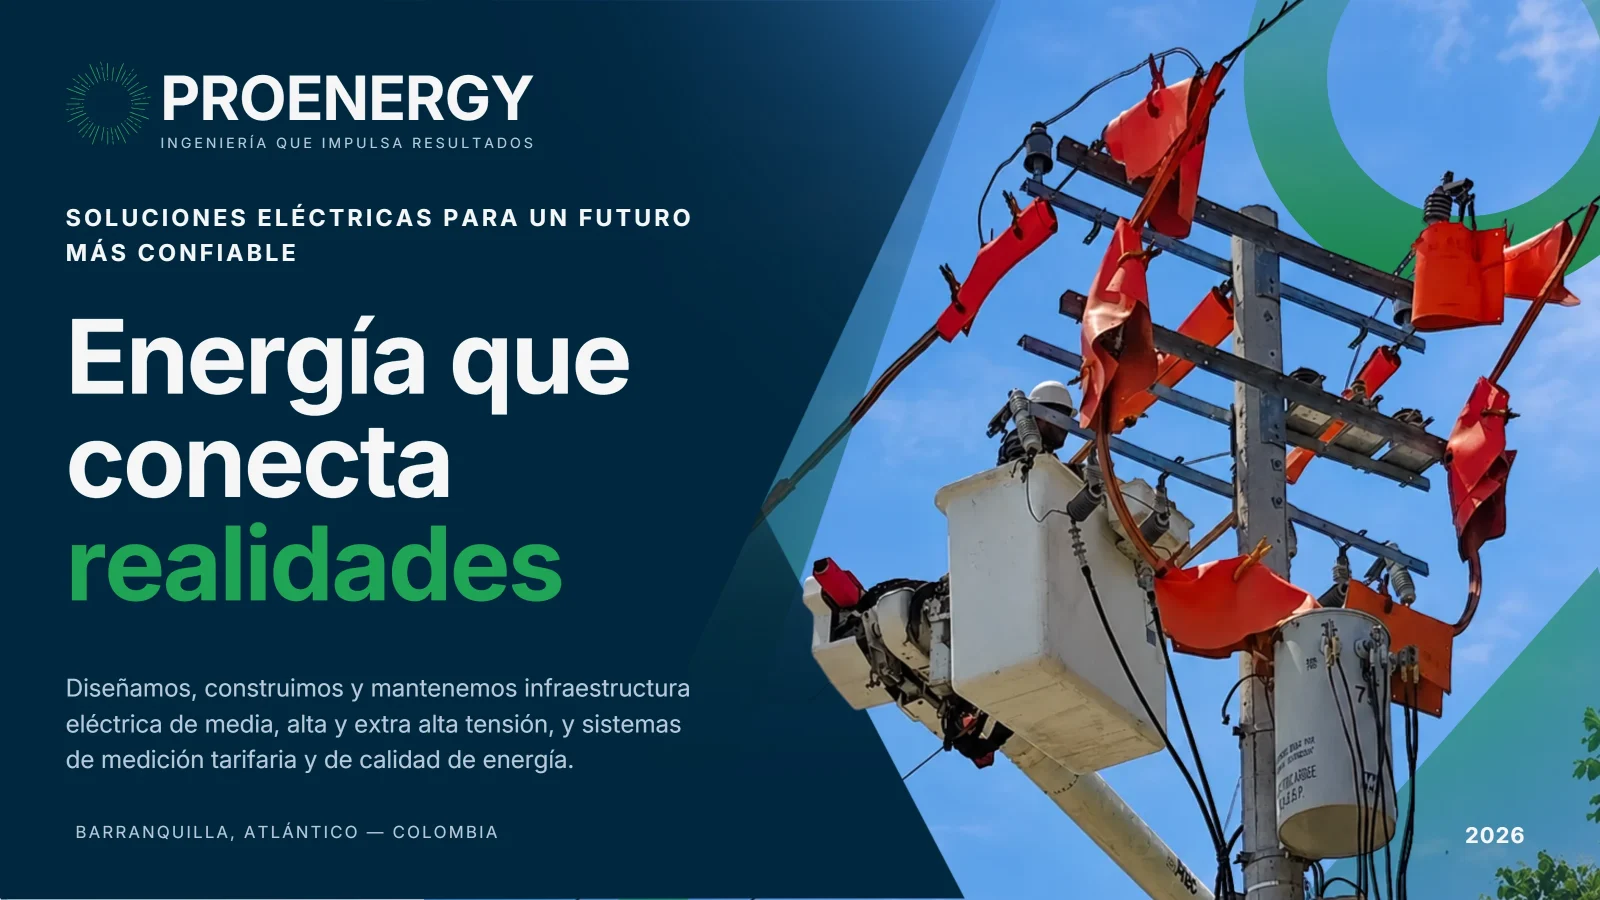
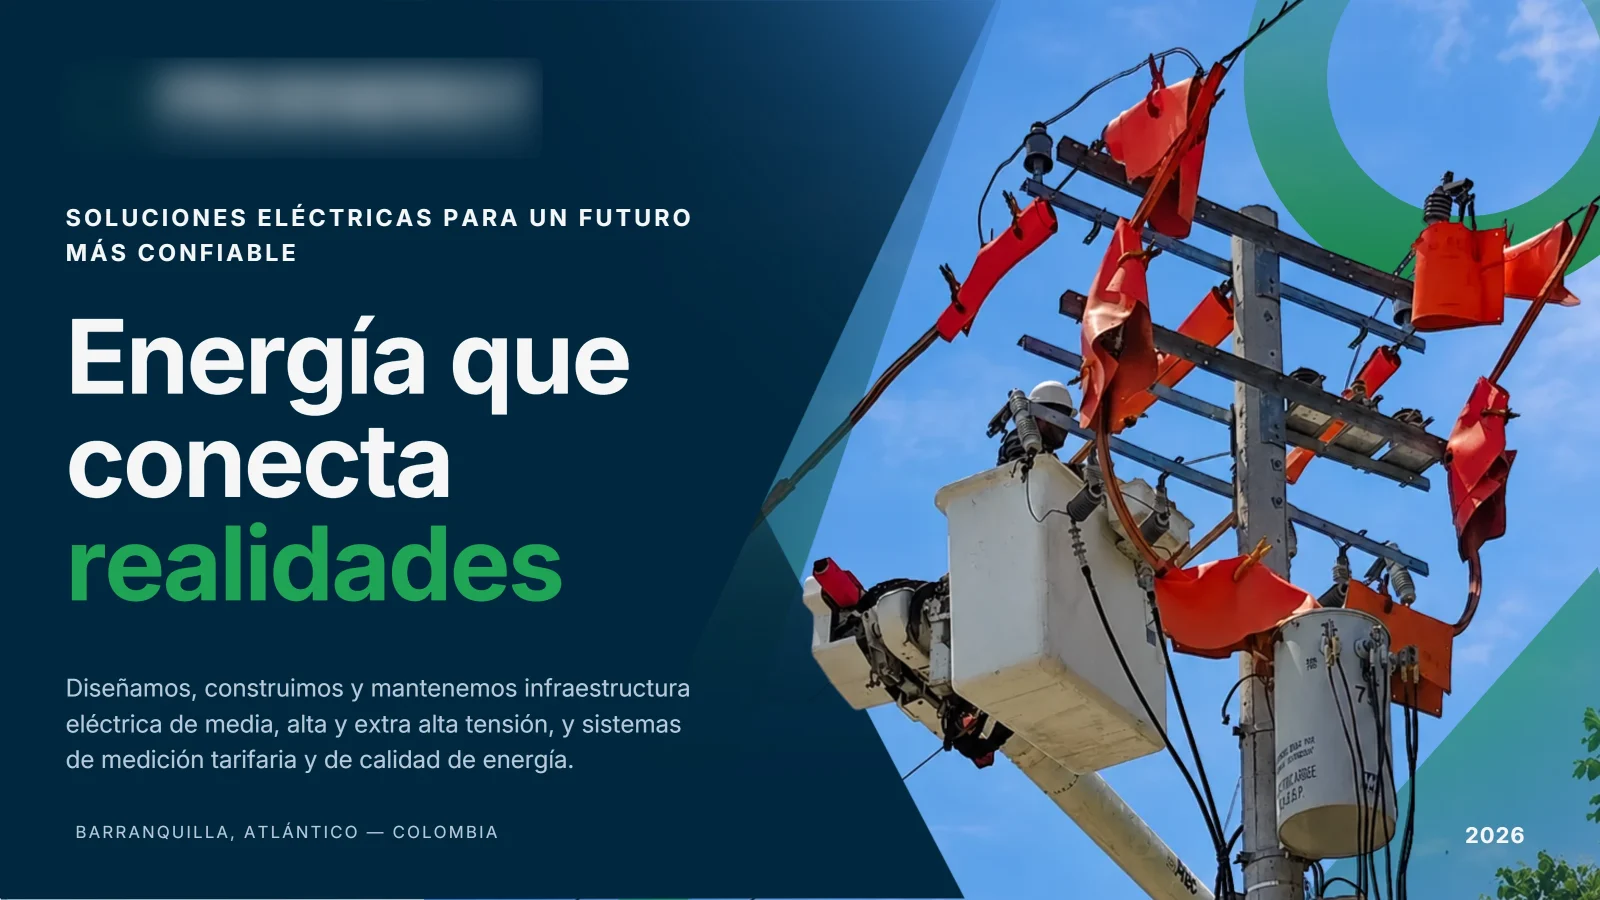
Portfolio: libro más ágil y propuesta sin el nombre del cliente
- Libro: la página pasa en 0,42 s y si das clic seguido termina la anterior al
  instante y sigue; las páginas nuevas del PDF se fuerzan a cargar (?v=pdf2) para
  no ver las viejas guardadas en el navegador. Flechas en SVG, centradas en el
  círculo (también en ATEC).
- La carpeta Proenergy pasa a 'Propuesta': el nombre de la marca va difuminado en
  las 4 diapositivas y no aparece en ningún texto; se aclara que fue una propuesta.

Changed region(s): [[0.0625, 0.0622, 0.3438, 0.1867]]

diff --git a/portfolio/index.html b/portfolio/index.html
@@ -1053,7 +1053,7 @@ html.has-cursor input,html.has-cursor textarea{cursor:text!important}
 /* ---------- libro que se hojea ---------- */
 .pw-scroll.bookw{display:block;overflow:hidden;padding:0;container-type:size;background:radial-gradient(80% 70% at 50% 40%,#F4EFE6,#E6E0D6)}
 .bk{display:flex;flex-direction:column;align-items:center;justify-content:center;gap:14px;height:100%;padding:18px 20px 14px;outline:none}
-.bk-book{position:relative;height:min(calc(100cqh - 132px),calc((100cqw - 40px) * .75));aspect-ratio:4/3;perspective:2600px;transition:transform .8s var(--ease)}
+.bk-book{position:relative;height:min(calc(100cqh - 132px),calc((100cqw - 40px) * .75));aspect-ratio:4/3;perspective:2600px;transition:transform .45s var(--ease)}
 .bk-book[data-v="first"]{transform:translateX(-25%)}
 .bk-book[data-v="last"]{transform:translateX(25%)}
 .bk-p,.bk-leaf{position:absolute;top:0;width:50%;height:100%}
@@ -1065,7 +1065,7 @@ html.has-cursor input,html.has-cursor textarea{cursor:text!important}
 .bk-l::after,.bk-b::after{background:linear-gradient(270deg,rgba(0,0,0,.2),rgba(0,0,0,0) 9%)}
 .bk-r::after,.bk-f::after{background:linear-gradient(90deg,rgba(0,0,0,.22),rgba(0,0,0,0) 9%)}
 .bk-book[data-v="first"] .bk-r::after{background:linear-gradient(90deg,rgba(0,0,0,.12),rgba(0,0,0,0) 3%)}
-.bk-leaf{right:0;z-index:3;transform-origin:left center;transform-style:preserve-3d;transition:transform .8s cubic-bezier(.45,.05,.3,1);visibility:hidden}
+.bk-leaf{right:0;z-index:3;transform-origin:left center;transform-style:preserve-3d;transition:transform .42s cubic-bezier(.4,.05,.25,1);visibility:hidden}
 .bk-leaf.on{visibility:visible}
 .bk-f,.bk-b{position:absolute;inset:0;backface-visibility:hidden;-webkit-backface-visibility:hidden}
 .bk-b{transform:rotateY(180deg)}
@@ -1074,7 +1074,8 @@ html.has-cursor input,html.has-cursor textarea{cursor:text!important}
 .bk-hit.prev{left:0}.bk-hit.next{right:0}
 .bk-hit:disabled{cursor:default}
 .bk-nav{display:flex;align-items:center;gap:14px}
-.bk-btn{width:36px;height:36px;border:0;border-radius:50%;background:var(--ink);color:#fff;font-size:20px;line-height:1;cursor:pointer;transition:transform .3s var(--ease),opacity .3s}
+.bk-btn{display:grid;place-items:center;width:38px;height:38px;padding:0;border:0;border-radius:50%;background:var(--ink);color:#fff;cursor:pointer;transition:transform .3s var(--ease),opacity .3s}
+.bk-btn svg,.atg-nav svg,.atg-x svg{display:block;width:18px;height:18px}
 .bk-btn:hover{transform:scale(1.08)}
 .bk-btn:disabled{opacity:.25;cursor:default;transform:none}
 .bk-count{min-width:120px;text-align:center;font-family:var(--f-mono);font-size:11.5px;letter-spacing:.08em;text-transform:uppercase;color:var(--ink-2)}
@@ -1101,7 +1102,7 @@ html.has-cursor input,html.has-cursor textarea{cursor:text!important}
 .atg-view{position:sticky;top:0;margin-top:-100%;z-index:5;display:grid;grid-template-columns:auto 1fr auto;align-items:center;gap:10px;height:100%;min-height:100%;padding:16px;background:rgba(20,16,26,.88);opacity:0;transition:opacity .25s ease}
 .atg-view.on{opacity:1}
 .pw-scroll.atg .atg-view img{grid-column:2;width:100%;max-width:none;max-height:calc(100% - 30px);height:auto;object-fit:contain;justify-self:center;border-radius:8px;box-shadow:0 30px 60px -25px rgba(0,0,0,.7);opacity:1;transform:none;animation:none}
-.atg-nav,.atg-x{width:38px;height:38px;border:0;border-radius:50%;background:rgba(255,255,255,.14);color:#fff;font-size:22px;line-height:1;cursor:pointer;transition:background .2s}
+.atg-nav,.atg-x{display:grid;place-items:center;width:38px;height:38px;padding:0;border:0;border-radius:50%;background:rgba(255,255,255,.14);color:#fff;cursor:pointer;transition:background .2s}
 .atg-nav:hover,.atg-x:hover{background:rgba(255,255,255,.28)}
 .atg-x{position:absolute;top:12px;right:12px}
 .atg-count{position:absolute;left:50%;bottom:10px;transform:translateX(-50%);font-size:12px;font-weight:600;color:rgba(255,255,255,.75)}
@@ -1319,12 +1320,12 @@ html.has-cursor.in-frame,html.has-cursor.in-frame *{cursor:auto!important}
         <span class="ico-name">ATEC<small>Estrategia de marca</small></span>
       </button>
       <button class="ico" type="button" data-open="editorial" style="--x:74%;--y:56%">
-        <span class="ico-art folder"><span class="fb"></span><img src="/assets/portfolio/felinorte/01.webp" alt="" width="900" height="1350" style="object-position:center 20%"><span class="ff"></span></span>
+        <span class="ico-art folder"><span class="fb"></span><img src="/assets/portfolio/felinorte/01.webp?v=pdf2" alt="" width="900" height="1350" style="object-position:center 20%"><span class="ff"></span></span>
         <span class="ico-name">Editorial<small>Libro ilustrado</small></span>
       </button>
       <button class="ico" type="button" data-open="proenergy" style="--x:3%;--y:44%">
-        <span class="ico-art folder"><span class="fb"></span><img src="/assets/portfolio/proenergy/01.webp" alt="" width="1600" height="900"><span class="ff"></span></span>
-        <span class="ico-name">Proenergy<small>Presentación</small></span>
+        <span class="ico-art folder"><span class="fb"></span><img src="/assets/portfolio/proenergy/01.webp?v=2" alt="" width="1600" height="900"><span class="ff"></span></span>
+        <span class="ico-name">Propuesta<small>Presentación</small></span>
       </button>
     </div>
 
@@ -1626,7 +1627,7 @@ html.has-cursor.in-frame,html.has-cursor.in-frame *{cursor:auto!important}
     return '<div class="atg-head"><b>ATEC · Estrategia de marca</b><span>'+g.titles.length+' páginas</span></div>'+
       '<div class="atg-grid">'+g.titles.map(function(t,i){var n=String(i+1).padStart(2,'0');
         return '<button type="button" class="atg-it" data-i="'+i+'" style="--i:'+i+'"><img src="'+g.base+n+'-t.webp" alt="'+t+'" width="560" height="347" loading="lazy" decoding="async"><span>'+(i+1)+'</span></button>'}).join('')+'</div>'+
-      '<div class="atg-view" hidden><button type="button" class="atg-x" aria-label="Volver a todas">×</button><button type="button" class="atg-nav prev" aria-label="Anterior">‹</button><img alt=""><button type="button" class="atg-nav next" aria-label="Siguiente">›</button><span class="atg-count"></span></div>';
+      '<div class="atg-view" hidden><button type="button" class="atg-x" aria-label="Volver a todas"><svg viewBox="0 0 24 24" aria-hidden="true"><path d="M7 7l10 10M17 7L7 17" fill="none" stroke="currentColor" stroke-width="2.4" stroke-linecap="round" stroke-linejoin="round"/></svg></button><button type="button" class="atg-nav prev" aria-label="Anterior"><svg viewBox="0 0 24 24" aria-hidden="true"><path d="M14.5 6l-6 6 6 6" fill="none" stroke="currentColor" stroke-width="2.4" stroke-linecap="round" stroke-linejoin="round"/></svg></button><img alt=""><button type="button" class="atg-nav next" aria-label="Siguiente"><svg viewBox="0 0 24 24" aria-hidden="true"><path d="M9.5 6l6 6-6 6" fill="none" stroke="currentColor" stroke-width="2.4" stroke-linecap="round" stroke-linejoin="round"/></svg></button><span class="atg-count"></span></div>';
   }
   // libro: 28 páginas; se ve de a dos como un libro abierto (portada sola a la derecha, contraportada sola a la izquierda)
   var BOOK={base:'/assets/portfolio/felinorte/',pages:30,title:'Descubriendo Felinorte'};
@@ -1635,14 +1636,15 @@ html.has-cursor.in-frame,html.has-cursor.in-frame *{cursor:auto!important}
       '<div class="bk-p bk-l"><img alt=""></div><div class="bk-p bk-r"><img alt=""></div>'+
       '<div class="bk-leaf"><div class="bk-f"><img alt=""></div><div class="bk-b"><img alt=""></div></div>'+
       '<button type="button" class="bk-hit prev" aria-label="Página anterior"></button><button type="button" class="bk-hit next" aria-label="Página siguiente"></button></div>'+
-      '<div class="bk-nav"><button type="button" class="bk-btn prev" aria-label="Página anterior">‹</button><span class="bk-count" aria-live="polite"></span><button type="button" class="bk-btn next" aria-label="Página siguiente">›</button></div>'+
+      '<div class="bk-nav"><button type="button" class="bk-btn prev" aria-label="Página anterior"><svg viewBox="0 0 24 24" aria-hidden="true"><path d="M14.5 6l-6 6 6 6" fill="none" stroke="currentColor" stroke-width="2.4" stroke-linecap="round" stroke-linejoin="round"/></svg></button><span class="bk-count" aria-live="polite"></span><button type="button" class="bk-btn next" aria-label="Página siguiente"><svg viewBox="0 0 24 24" aria-hidden="true"><path d="M9.5 6l6 6-6 6" fill="none" stroke="currentColor" stroke-width="2.4" stroke-linecap="round" stroke-linejoin="round"/></svg></button></div>'+
       '<p class="bk-note"><b>Proyecto educativo · 2023.</b> Ilustrado y diagramado por una de nuestras diseñadoras para un trabajo universitario. Sin fines comerciales.</p></div>';
   }
   function watchBook(root){
     var bk=root.querySelector('.bk');if(!bk)return;
     var book=bk.querySelector('.bk-book'),L=bk.querySelector('.bk-l img'),R=bk.querySelector('.bk-r img'),leaf=bk.querySelector('.bk-leaf'),F=leaf.querySelector('.bk-f img'),B=leaf.querySelector('.bk-b img'),cnt=bk.querySelector('.bk-count');
-    var N=BOOK.pages,V=Math.floor(N/2),v=0,busy=false;
-    function src(n){return n>=1&&n<=N?BOOK.base+String(n).padStart(2,'0')+'.webp':''}
+    var N=BOOK.pages,V=Math.floor(N/2),v=0,busy=false,tm=null,DUR=420;
+    function done(){clearTimeout(tm);leaf.classList.remove('on');show();busy=false}
+    function src(n){return n>=1&&n<=N?BOOK.base+String(n).padStart(2,'0')+'.webp?v=pdf2':''}
     function set(im,n){var u=src(n);im.parentNode.classList.toggle('empty',!u);if(u){if(im.getAttribute('src')!==u)im.src=u;im.alt=BOOK.title+', página '+n}else{im.removeAttribute('src');im.alt=''}}
     function pages(x){return x===0?[0,1]:x===V?[N,0]:[2*x,2*x+1]}
     function show(){var p=pages(v);set(L,p[0]);set(R,p[1]);book.setAttribute('data-v',v===0?'first':v===V?'last':'mid');
@@ -1651,7 +1653,8 @@ html.has-cursor.in-frame,html.has-cursor.in-frame *{cursor:auto!important}
       // precarga las dos páginas siguientes
       [2*v+2,2*v+3].forEach(function(n){var u=src(n);if(u)(new Image()).src=u});}
     function flip(d){
-      if(busy||(d>0&&v===V)||(d<0&&v===0))return;
+      if(busy)done();
+      if((d>0&&v===V)||(d<0&&v===0))return;
       var cur=pages(v),nxt=pages(v+d);
       if(reduce){v+=d;show();return}
       busy=true;
@@ -1660,7 +1663,7 @@ html.has-cursor.in-frame,html.has-cursor.in-frame *{cursor:auto!important}
       v+=d;book.setAttribute('data-v',v===0?'first':v===V?'last':'mid');
       leaf.classList.add('on');void leaf.offsetWidth;
       leaf.style.transition='';leaf.style.transform=d>0?'rotateY(-180deg)':'rotateY(0deg)';
-      setTimeout(function(){leaf.classList.remove('on');show();busy=false},820);
+      tm=setTimeout(done,DUR+20);
     }
     bk.querySelectorAll('.next').forEach(function(b){b.addEventListener('click',function(){flip(1)})});
     bk.querySelectorAll('.prev').forEach(function(b){b.addEventListener('click',function(){flip(-1)})});
@@ -1683,14 +1686,14 @@ html.has-cursor.in-frame,html.has-cursor.in-frame *{cursor:auto!important}
       desc:'Símbolos y logotipos para marcas de distintos sectores. Los mostramos en gris para que se vean como una sola colección.',
       done:['Símbolo','Logotipo','Versiones','Sistema en blanco y negro'],
       pages:[{id:'logos',label:'Logos',url:'Logofolio · Kaiva Studio',html:logofolioHTML}]},
-    proenergy:{name:'Proenergy',kind:'Presentación comercial',hash:'proenergy',
-      desc:'Presentación de casos de éxito para Proenergy, empresa de ingeniería eléctrica en Barranquilla. Las fotos son de sus obras reales; los datos de contacto y las cifras van difuminados.',
-      done:['Diseño de presentación','Casos de éxito con reto, solución y resultado','Sistema visual de la marca','Cierre con llamado a la acción'],
-      pages:[{id:'presentacion',label:'Presentación',url:'Presentación · Proenergy',deck:[
-        {src:'/assets/portfolio/proenergy/01.webp',alt:'Portada: Energía que conecta realidades'},
-        {src:'/assets/portfolio/proenergy/02.webp',alt:'Caso de éxito 01: modernización de una red de media tensión'},
-        {src:'/assets/portfolio/proenergy/03.webp',alt:'Caso de éxito 02: generación solar para un autogenerador industrial'},
-        {src:'/assets/portfolio/proenergy/04.webp',alt:'Cierre: Hablemos de su próximo proyecto'}]}]},
+    proenergy:{name:'Propuesta comercial',kind:'Presentación · Propuesta',hash:'propuesta',
+      desc:'Propuesta de presentación de casos de éxito para una empresa de ingeniería eléctrica. Las fotos son de obras reales; el nombre de la marca, los datos de contacto y las cifras van difuminados.',
+      done:['Diseño de presentación','Casos de éxito con reto, solución y resultado','Sistema visual','Cierre con llamado a la acción'],
+      pages:[{id:'presentacion',label:'Presentación',url:'Propuesta comercial',deck:[
+        {src:'/assets/portfolio/proenergy/01.webp?v=2',alt:'Portada: Energía que conecta realidades'},
+        {src:'/assets/portfolio/proenergy/02.webp?v=2',alt:'Caso de éxito 01: modernización de una red de media tensión'},
+        {src:'/assets/portfolio/proenergy/03.webp?v=2',alt:'Caso de éxito 02: generación solar para un autogenerador industrial'},
+        {src:'/assets/portfolio/proenergy/04.webp?v=2',alt:'Cierre: Hablemos de su próximo proyecto'}]}]},
     editorial:{name:'Editorial',kind:'Diseño editorial · Ilustración',hash:'editorial',
       desc:'Descubriendo Felinorte (2023): libro sobre el grupo estudiantil que cuida la colonia de gatos de la Universidad del Norte. Proyecto totalmente educativo, ilustrado y diagramado por una de nuestras diseñadoras.',
       done:['Ilustración de portada e interiores','Diagramación del libro','Tipografía y paleta','Proyecto académico, sin fines comerciales'],
